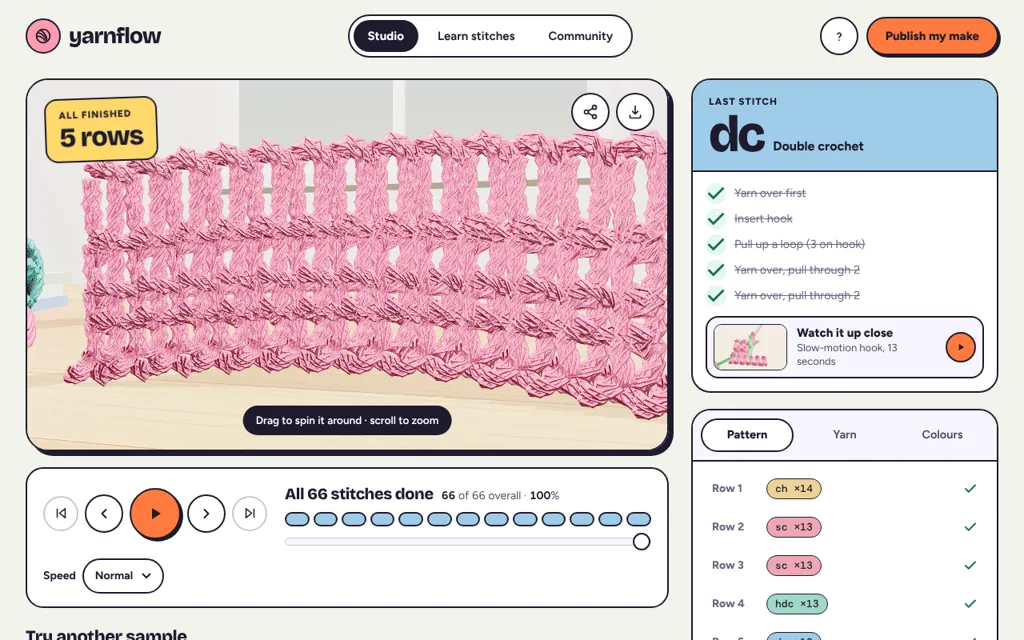
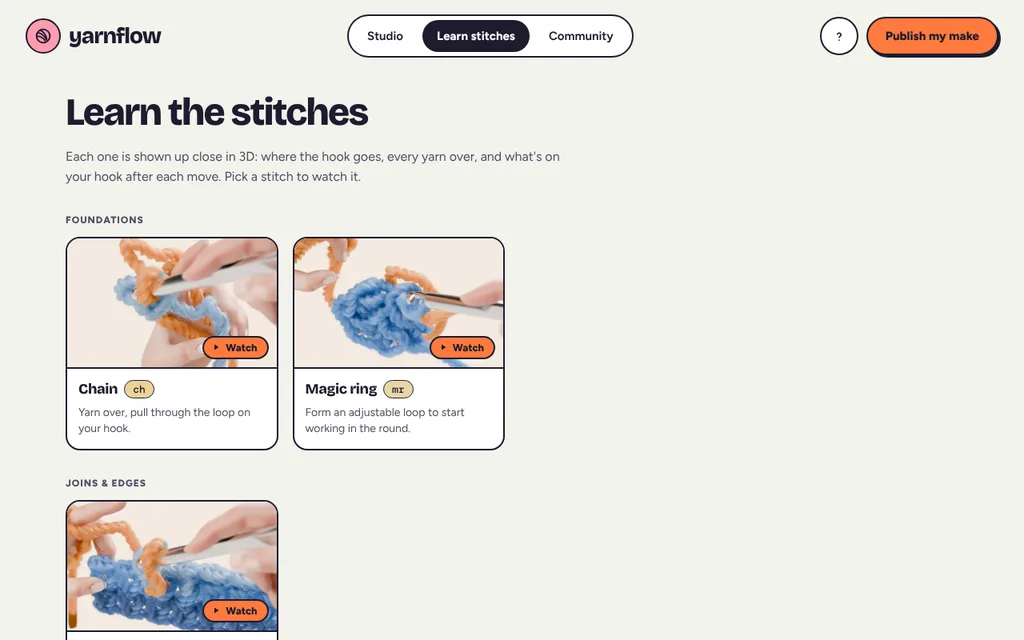
YarnFlow's room shows the app's real Learn the stitches tutorial instead of the rendered swatch
Claude-Session: https://claude.ai/code/session_01RFXApAjFAD1XiqWdafdgfm

diff --git a/index.html b/index.html
@@ -283,44 +283,44 @@
 { "imports": {
   "three": "https://unpkg.com/three@0.160.0/build/three.module.js",
   "three/addons/": "https://unpkg.com/three@0.160.0/examples/jsm/",
-  "./js/audio.js": "./js/audio.js?cb=219",
-  "./js/buildings.js": "./js/buildings.js?cb=219",
-  "./js/bump.js": "./js/bump.js?cb=219",
-  "./js/citizens.js": "./js/citizens.js?cb=219",
-  "./js/crowd.js": "./js/crowd.js?cb=219",
-  "./js/faces.js": "./js/faces.js?cb=219",
-  "./js/folk.js": "./js/folk.js?cb=219",
-  "./js/game.js": "./js/game.js?cb=219",
-  "./js/grounds.js": "./js/grounds.js?cb=219",
-  "./js/harbour.js": "./js/harbour.js?cb=219",
-  "./js/human.js": "./js/human.js?cb=219",
-  "./js/manifest.js": "./js/manifest.js?cb=219",
-  "./js/park.js": "./js/park.js?cb=219",
-  "./js/phone.js": "./js/phone.js?cb=219",
-  "./js/player.js": "./js/player.js?cb=219",
-  "./js/plaza.js": "./js/plaza.js?cb=219",
-  "./js/portraits.js": "./js/portraits.js?cb=219",
-  "./js/props.js": "./js/props.js?cb=219",
-  "./js/rail.js": "./js/rail.js?cb=219",
-  "./js/route.js": "./js/route.js?cb=219",
-  "./js/shopinterior.js": "./js/shopinterior.js?cb=219",
-  "./js/story.js": "./js/story.js?cb=219",
-  "./js/style.js": "./js/style.js?cb=219",
-  "./js/town.js": "./js/town.js?cb=219",
-  "./js/train.js": "./js/train.js?cb=219",
-  "./js/world.js": "./js/world.js?cb=219",
-  "./js/cull.js": "./js/cull.js?cb=219",
-  "./js/north.js": "./js/north.js?cb=219",
-  "./js/riverlife.js": "./js/riverlife.js?cb=219",
-  "./js/roadside.js": "./js/roadside.js?cb=219",
-  "./js/carparks.js": "./js/carparks.js?cb=219",
-  "./js/rooms.js": "./js/rooms.js?cb=219",
-  "./js/plants.js": "./js/plants.js?cb=219",
-  "./js/overlook.js": "./js/overlook.js?cb=219",
-  "./js/meadow.js": "./js/meadow.js?cb=219",
-  "./js/club.js": "./js/club.js?cb=219"
+  "./js/audio.js": "./js/audio.js?cb=220",
+  "./js/buildings.js": "./js/buildings.js?cb=220",
+  "./js/bump.js": "./js/bump.js?cb=220",
+  "./js/citizens.js": "./js/citizens.js?cb=220",
+  "./js/crowd.js": "./js/crowd.js?cb=220",
+  "./js/faces.js": "./js/faces.js?cb=220",
+  "./js/folk.js": "./js/folk.js?cb=220",
+  "./js/game.js": "./js/game.js?cb=220",
+  "./js/grounds.js": "./js/grounds.js?cb=220",
+  "./js/harbour.js": "./js/harbour.js?cb=220",
+  "./js/human.js": "./js/human.js?cb=220",
+  "./js/manifest.js": "./js/manifest.js?cb=220",
+  "./js/park.js": "./js/park.js?cb=220",
+  "./js/phone.js": "./js/phone.js?cb=220",
+  "./js/player.js": "./js/player.js?cb=220",
+  "./js/plaza.js": "./js/plaza.js?cb=220",
+  "./js/portraits.js": "./js/portraits.js?cb=220",
+  "./js/props.js": "./js/props.js?cb=220",
+  "./js/rail.js": "./js/rail.js?cb=220",
+  "./js/route.js": "./js/route.js?cb=220",
+  "./js/shopinterior.js": "./js/shopinterior.js?cb=220",
+  "./js/story.js": "./js/story.js?cb=220",
+  "./js/style.js": "./js/style.js?cb=220",
+  "./js/town.js": "./js/town.js?cb=220",
+  "./js/train.js": "./js/train.js?cb=220",
+  "./js/world.js": "./js/world.js?cb=220",
+  "./js/cull.js": "./js/cull.js?cb=220",
+  "./js/north.js": "./js/north.js?cb=220",
+  "./js/riverlife.js": "./js/riverlife.js?cb=220",
+  "./js/roadside.js": "./js/roadside.js?cb=220",
+  "./js/carparks.js": "./js/carparks.js?cb=220",
+  "./js/rooms.js": "./js/rooms.js?cb=220",
+  "./js/plants.js": "./js/plants.js?cb=220",
+  "./js/overlook.js": "./js/overlook.js?cb=220",
+  "./js/meadow.js": "./js/meadow.js?cb=220",
+  "./js/club.js": "./js/club.js?cb=220"
 } }
 </script>
-<script type="module" src="./js/main.js?cb=219"></script>
+<script type="module" src="./js/main.js?cb=220"></script>
 </body>
 </html>

diff --git a/js/rooms.js b/js/rooms.js
@@ -21,7 +21,7 @@ import { audio } from './audio.js';
 const PLACES = {
   yarn: {
     id: 'yarnflow', title: 'YarnFlow', trade: 'Pattern Haberdashery', sound: 'cosy',
-    url: 'https://ghanemja.github.io/crochet/', shot: 'screenshots/rooms/yarnflow.webp',
+    url: 'https://ghanemja.github.io/crochet/', shot: 'screenshots/rooms/yarnflow.webp?v=2',   // (the app's Learn the stitches tutorial)
     desc: 'A crochet studio: watch a pattern get made stitch by stitch in 3D, learn the stitches, and share what you make.',
   },
   eyes: {

diff --git a/FEATURE_LOG.md b/FEATURE_LOG.md
@@ -348,3 +348,4 @@ check · ⏳ in progress · 📦 asset staged, not wired · ❌ deferred.
   - 2026-10-31: on `wip-trim`: one mitred cornice ring round every wall (`ringPrism`/`corniceRing`) and hipped roofs whose eaves rest on it with a 0.04 overhang all round (`roofOnRing`) — downtown blocks (flat roof now inside the parapet), Main Street shops, Public Library, station (hall, wings, clock tower), Book Library; clubhouse roof off its band's top face. Automated check (every side + corners of 24 buildings): 24 offenders / 2401 bad samples → 0 / 0. Museum (both games): wing balustrades wrap three sides with posts at corners and ends, balusters on the ledge; the ladder rests on the handrail and the stray upright second ladder off the west wing is gone (the clue sparkles on the real one). Not merged.
   - Built on `wip-meadow` (js/meadow.js): ~420 wildflowers (tulips, daisies, poppies, cosmos, cornflowers, buttercups, lavender/salvia, grass, clover, broad leaves) in drifts on the open lawn across the road west of Lantern Park, among its trees; one merged mesh + one ink hull (2 draws); the vertex shader lays plants flat round her trail (and the car's) and springs them back with a wobble; running through pops hand-lettered "stomp!" words and a soft rustle. Awaiting review.
 - 🟡 **Move the circled flower patch onto the empty lawn beside it** (2026-10-31). It was the wildflower meadow (js/meadow.js, ~420–460 stompable flowers, one fill + one ink draw) on the open hillside straight across the road from Lantern Park; it now sits on the wedge of lawn just north of there, between that road and the cul-de-sac road, round the little tiered conifer and the lawn's trees (SPOT moved to x −9.76, z 14.25, rot 0.18 in the park frame; its reservation moves with it, clear of both kerbs). The old spot is plain lawn again (the beige there is the hill's own earth band). Squash/spring-back and "stomp!" unchanged. Cache tokens cb=217. Verified headless. Not yet deployed.
+- 🟡 **YarnFlow's room: show the real yarn tutorial instead of the rendered swatch** (2026-10-31). The screen in the room now shows the live app's "Learn the stitches" page (real photos of hooks and yarn: chain, magic ring, joins), captured fresh from ghanemja.github.io/crochet.
